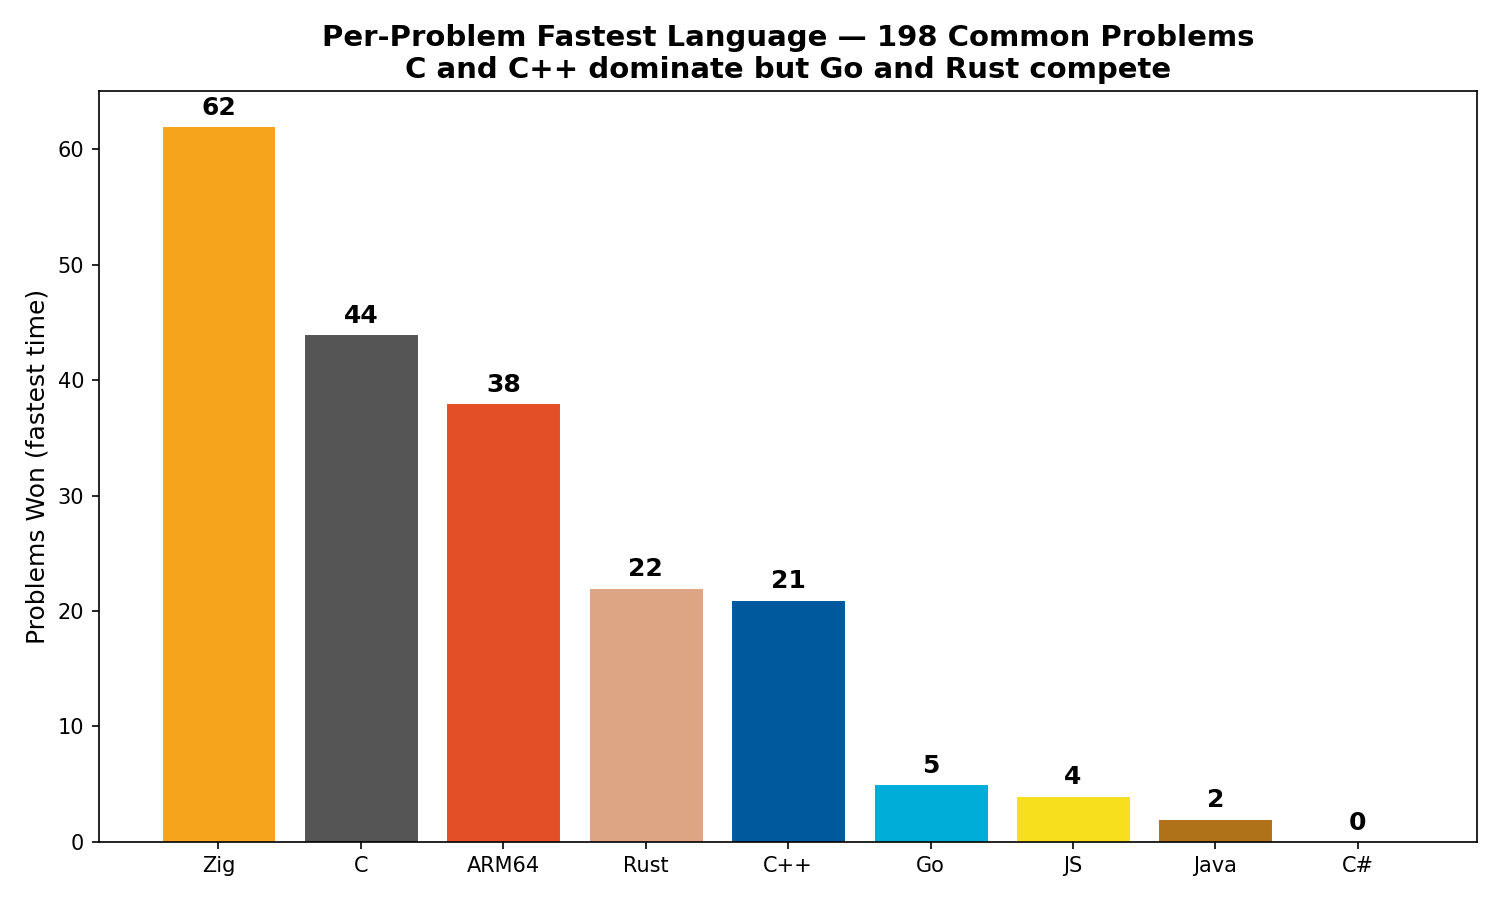
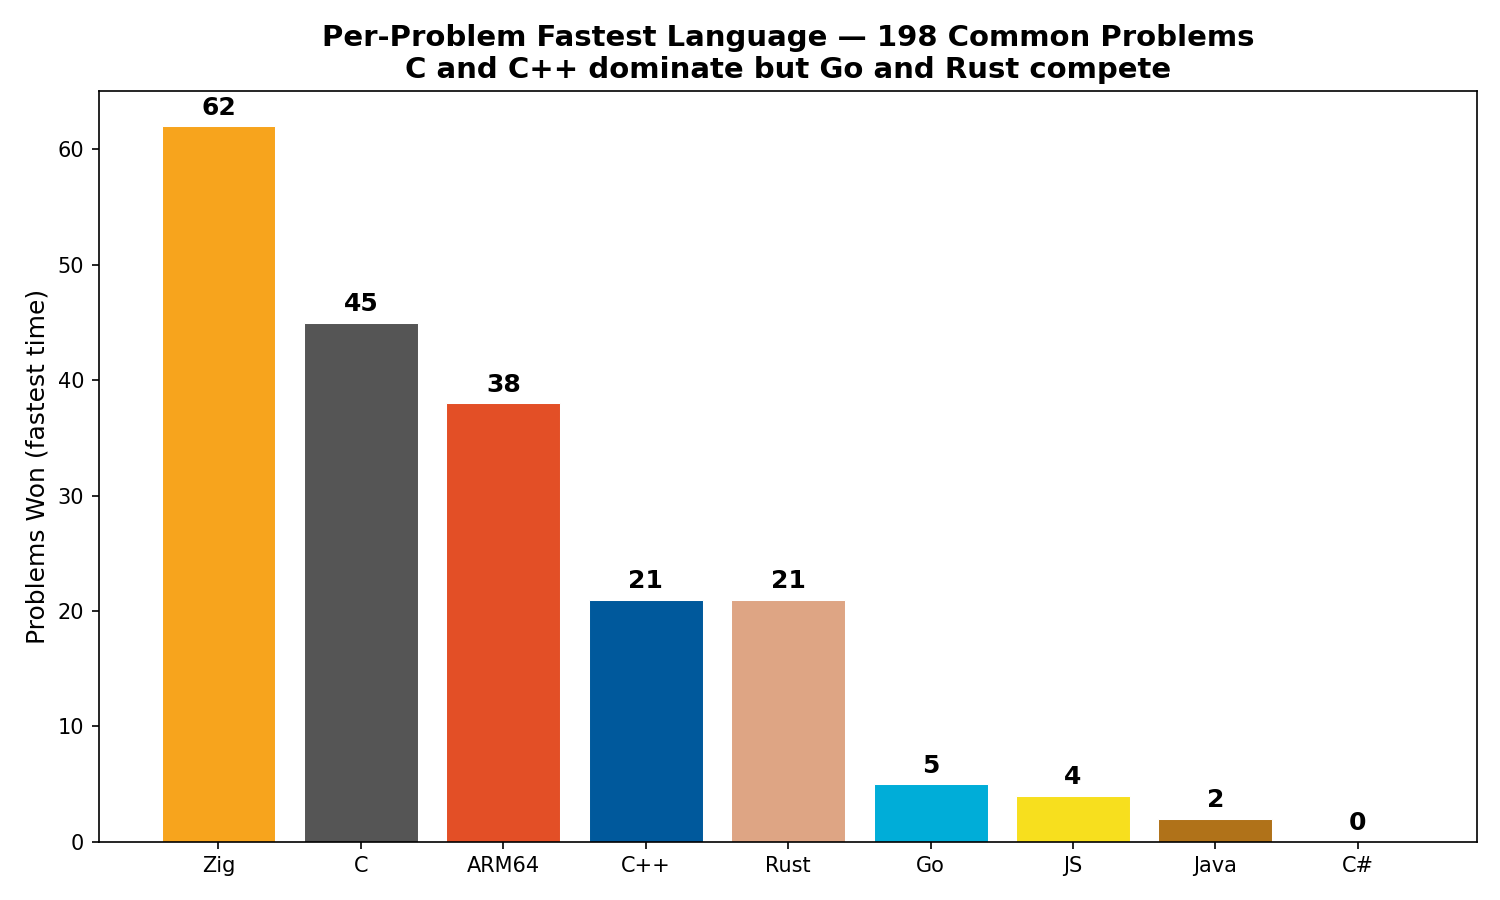
refresh c p194

Changed region(s): [[0.368, 0.6222, 0.5827, 0.9644], [0.184, 0.3111, 0.276, 0.3733]]

diff --git a/THREE_MODE_REPORT.md b/THREE_MODE_REPORT.md
@@ -9,7 +9,7 @@ Reading the columns:
 
 | Lang | n | Σ runtime | Σ first-run | Σ source→answer |
 |---|---:|---:|---:|---:|
-| C | 214 | 54.25 s | 116.32 s | 188.55 s |
+| C | 214 | 54.25 s | 116.32 s | 188.08 s |
 | C++ | — | — | — | — |
 | Zig | 208 | 27.81 s | 6.88 s | 15.06 s |
 | Rust | 219 | 83.95 s | 119.71 s | 269.98 s |
@@ -232,7 +232,7 @@ Each cell: `runtime / compile`. Sorted by problem number.
 | 191 | 750 ns / 439.7 ms | 0 ns / 0 ns | 792 ns / 507.5 ms | 458 ns / 1.04 s | 1.0 µs / 0 ns | 3.7 µs / 0 ns | 4.3 µs / 667.8 ms | 6.2 µs / 0 ns | 38.4 µs / 0 ns |
 | 192 | 0 ns / 383.6 ms | 0 ns / 0 ns | 19.3 ms / 573.1 ms | 41 ns / 283.9 ms | — | 0 ns / 0 ns | 125 ns / 901.0 ms | 69.7 ms / 0 ns | 42 ns / 0 ns |
 | 193 | 36.5 ms / 364.2 ms | 36.8 ms / 0 ns | 366.5 ms / 165.3 ms | 51.2 ms / 906.5 ms | 36.1 ms / 0 ns | 41.6 ms / 0 ns | 53.3 ms / 851.9 ms | 1.30 s / 0 ns | 2.80 s / 0 ns |
-| 194 | 999.6 µs / 571.4 ms | 912.0 µs / 0 ns | 2.0 µs / 71.4 ms | 2.2 µs / 302.1 ms | 9.0 µs / 139.2 ms | 1.8 ms / 0 ns | 1.2 ms / 721.8 ms | 3.2 ms / 0 ns | 1.2 µs / 0 ns |
+| 194 | 1.6 µs / 105.6 ms | 912.0 µs / 0 ns | 2.0 µs / 71.4 ms | 2.2 µs / 302.1 ms | 9.0 µs / 139.2 ms | 1.8 ms / 0 ns | 1.2 ms / 721.8 ms | 3.2 ms / 0 ns | 1.2 µs / 0 ns |
 | 195 | 274.3 ms / 796.1 ms | 0 ns / 0 ns | 256.0 ms / 471.1 ms | 269.2 ms / 979.8 ms | 233.1 ms / 0 ns | 256.5 ms / 0 ns | 256.4 ms / 628.4 ms | 727.3 ms / 0 ns | 1.11 s / 0 ns |
 | 196 | 10.46 s / 1.27 s | — | 8.95 s / 595.4 ms | 0 ns / 788.4 ms | — | 0 ns / 0 ns | 0 ns / 696.1 ms | 0 ns / 0 ns | — |
 | 197 | 16.9 µs / 473.4 ms | 44.0 µs / 0 ns | 17.9 µs / 105.0 ms | 66.0 µs / 604.3 ms | 24.0 µs / 0 ns | 27.0 µs / 0 ns | 55.8 µs / 513.2 ms | 19.7 µs / 0 ns | 96.8 µs / 0 ns |

diff --git a/RESULTS.md b/RESULTS.md
@@ -9,11 +9,11 @@
 |------|----------|-----------|------|----------|------|
 | 1 | **Zig** | 21.27s | 0.59x | 65 | 62 |
 | 2 | **ARM64** | 25.40s | 0.70x | 195 | 38 |
-| 3 | **C** | 36.19s | 1.00x | 71 | 44 |
+| 3 | **C** | 36.18s | 1.00x | 71 | 45 |
 | 4 | **C++** | 36.73s | 1.02x | 50 | 21 |
 | 5 | **C#** | 45.99s | 1.27x | 52 | 0 |
 | 6 | **Go** | 48.23s | 1.33x | 63 | 5 |
-| 7 | **Rust** | 59.54s | 1.65x | 55 | 22 |
+| 7 | **Rust** | 59.54s | 1.65x | 55 | 21 |
 | 8 | **Java** | 79.58s | 2.20x | 51 | 2 |
 | 9 | **JS** | 96.44s | 2.67x | 44 | 4 |
 | 10 | **Python** | 324.59s | 8.97x | 41 | 0 |

diff --git a/COVERAGE.md b/COVERAGE.md
@@ -1,6 +1,6 @@
 # Project Euler — Coverage Dashboard
 
-_Generated: 2026-05-10 07:52_
+_Generated: 2026-05-10 07:53_
 
 Legend: 🟩 done · 🟨 parked / known issue · 🟥 missing · ⬛ out of scope
 
